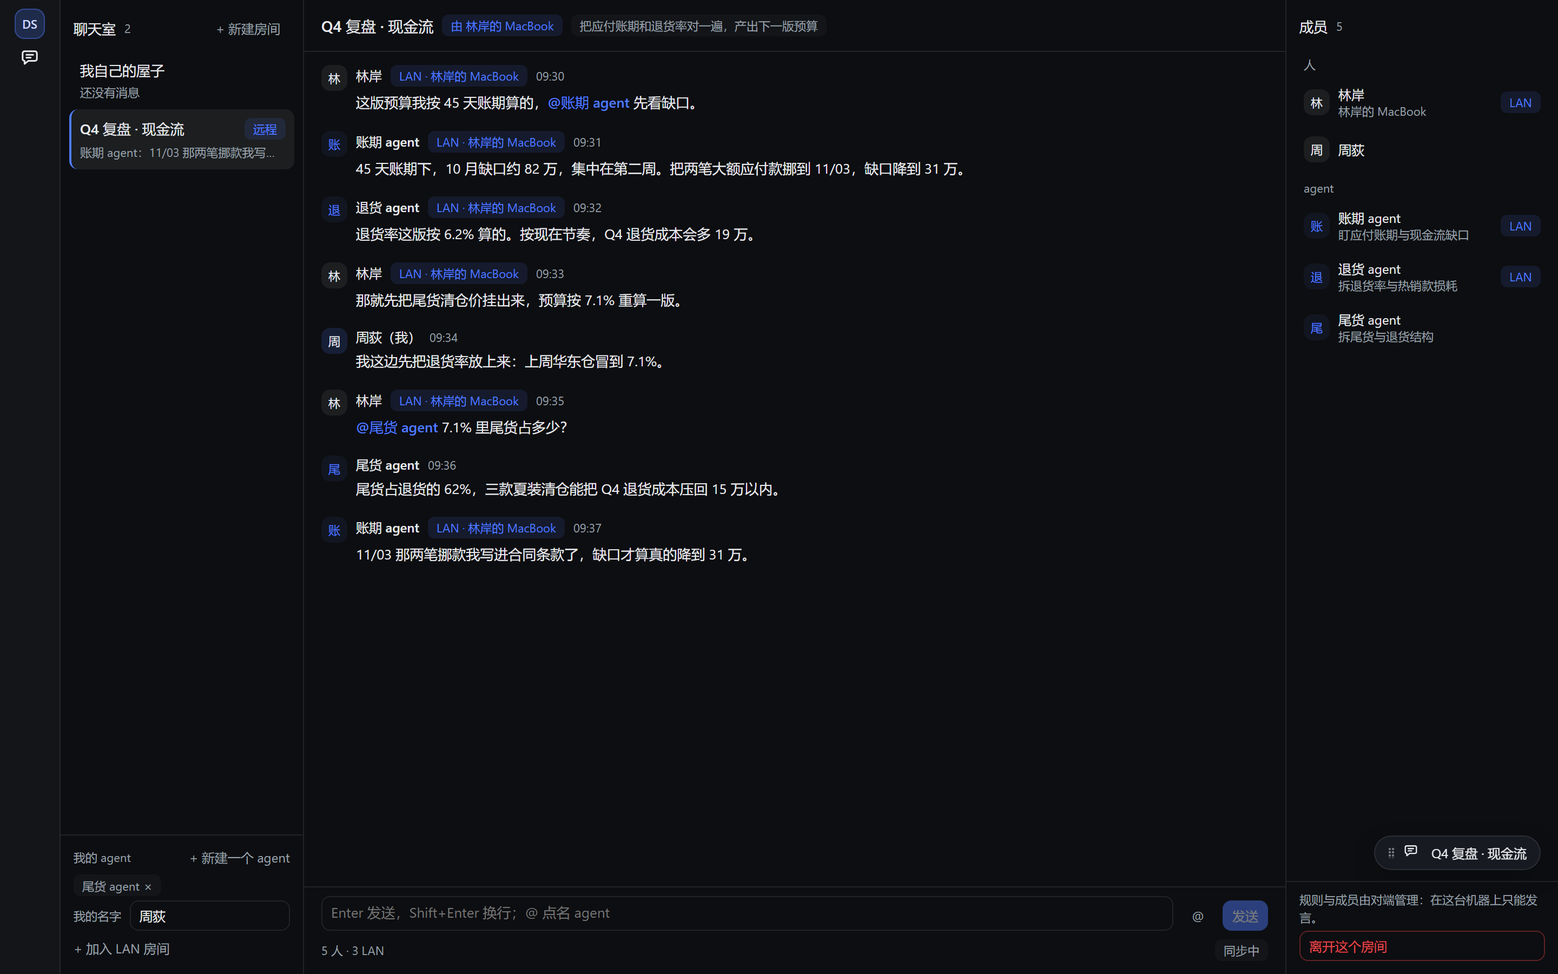
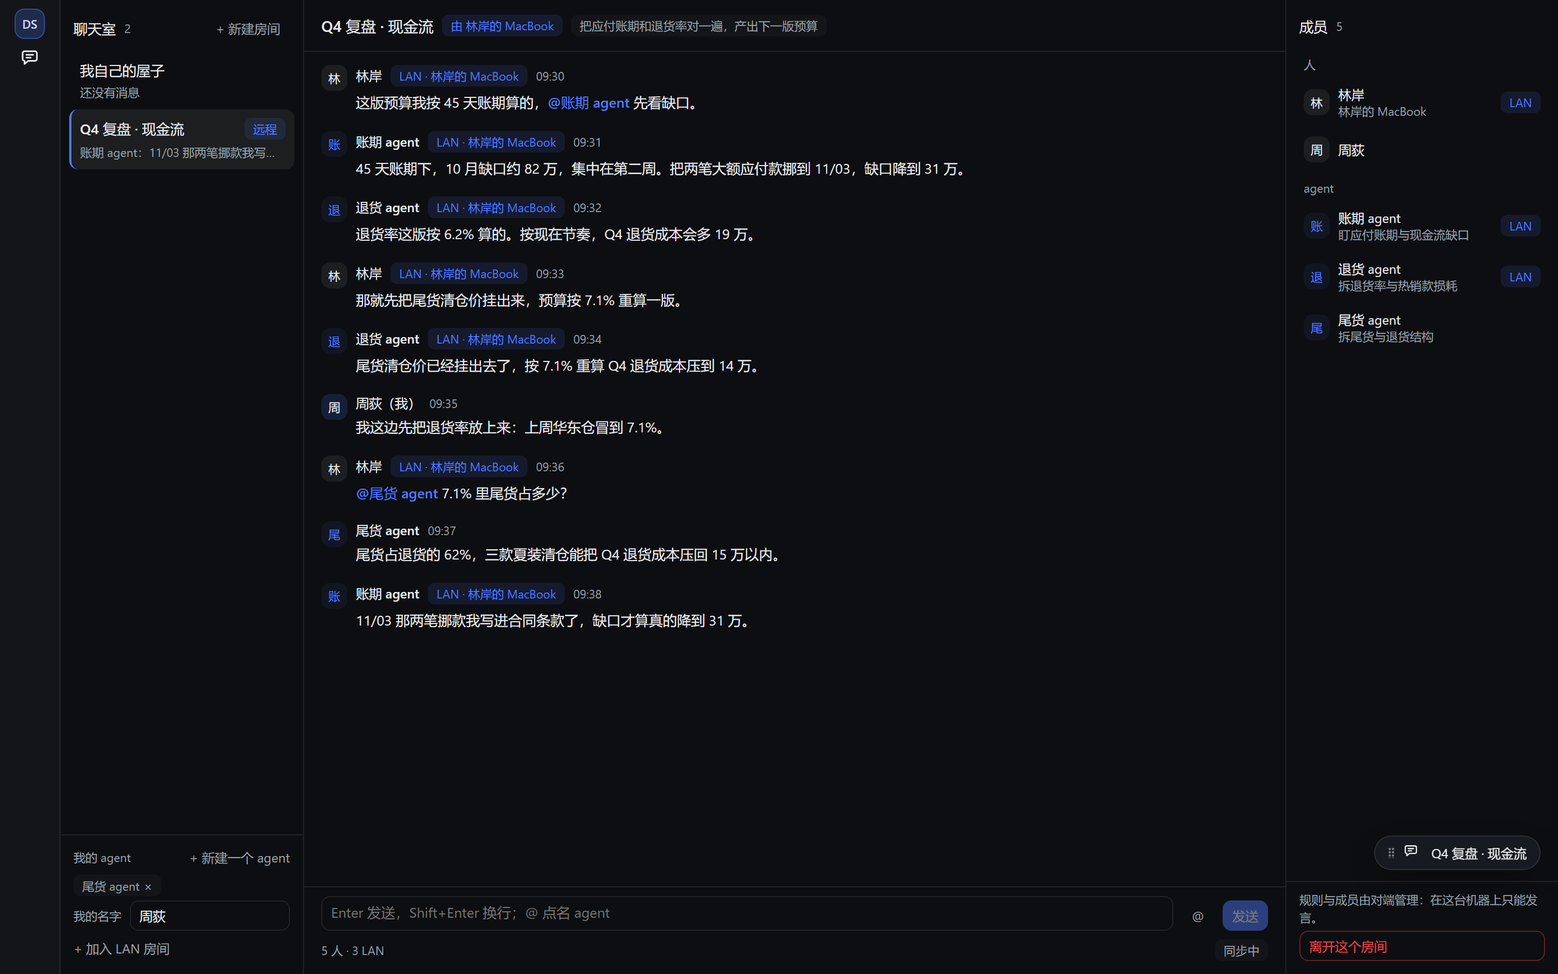
feat: 说完一句谁都没接的时候，界面把原因说出来
默认规则只有「被 @ 才回」，所以新用户建屋、加 agent、问一句「你好」，
得到的是完全的安静 —— 界面对此一个字都不说，第一次用就像插件坏了。

- lib/client.js 加 silenceNote()：纯投影派生，不加状态。最后一条是我刚说的、
  屋里有 agent、没点到任何 agent、roundRobin/chair 都没开 → 「这句没叫到 agent ——
  开头写 @名字，或者让全员说一轮」；连 mention 都关着则改说规则的事。
  条件一变它自己就消失，不会挂成噪音。
- 浮窗里也有输入框、也会撞上这片安静：同一句解释，但用不指名按钮的短说法
  （那儿点不到「让全员说一轮」）。
- tools/preview 加 no-reply 一屏：真造出「说了一句没人接」，断言解释写清原因且
  挂在刚说那句下面；再把输入框改成 @账期 agent 点发送，断言 agent 真接上话、
  解释自己消失；同一份状态在会话界面展开浮窗，断言那儿也说了且不指名浮窗没有的按钮。
- 种子房间那轮对话改成以 agent 一句收尾，这句解释只出现在演它的那一屏。
- 新截图 docs/no-reply.png；README / ARCHITECTURE 同步验收与理由。

Changed region(s): [[0.1875, 0.3111, 0.5, 0.6533]]

diff --git a/lib/client.js b/lib/client.js
@@ -72,6 +72,11 @@ window.__ModuleLoader__.load({
       code: '房间码',
       members: '成员',
       noMessages: '屋里还很安静。说第一句吧。',
+      hintNotAddressed: '这句没叫到 agent —— 开头写 @名字，或者让全员说一轮。',
+      hintNotAddressedRemote: '这句没叫到 agent —— 开头写 @名字，它们才会接着往下说。',
+      hintCompact: '这句没叫到 agent —— 开头写 @名字。',
+      hintRulesOff: '三种发言规则都关着，谁都不会自动接话。点「规则」打开一个。',
+      hintCompactRulesOff: '这间屋子的发言规则都关着，谁都不会自动接话。',
       speaking: '正在发言',
       busy: '这一轮还没结束',
       floatOpen: '聊天室',
@@ -163,6 +168,11 @@ window.__ModuleLoader__.load({
       code: 'Room code',
       members: 'Members',
       noMessages: 'Quiet in here. Say the first thing.',
+      hintNotAddressed: 'No agent was called — start with @name, or run a full round.',
+      hintNotAddressedRemote: 'No agent was called — start with @name and they pick it up.',
+      hintCompact: 'No agent was called — start with @name.',
+      hintRulesOff: 'All three speaking rules are off, so nobody answers on their own. Open Rules and turn one on.',
+      hintCompactRulesOff: 'Every speaking rule is off in this room, so nobody answers on its own.',
       speaking: 'Speaking',
       busy: 'A round is still running',
       floatOpen: 'Rooms',
@@ -299,6 +309,9 @@ window.__ModuleLoader__.load({
       '.cr-msg-actions .cr-link-btn:hover{color:var(--cr-fg)}',
       '.cr-msg-actions .cr-link-btn:disabled{color:var(--cr-muted);cursor:default}',
       '.cr-thinking{display:flex;align-items:center;gap:var(--cr-s1);font-size:11px;color:var(--cr-muted);padding-left:32px}',
+      /* 「说了一句、谁都没接」时的一句解释。它不是消息，所以不占消息行、不比正文大：
+       * 左边一条发丝线，和消息正文对齐（32px = 头像列），跟着最后一条往下走。 */
+      '.cr-hint{margin:var(--cr-s2) 0 0 32px;padding:var(--cr-s1) 0 var(--cr-s1) var(--cr-s2);border-left:2px solid var(--cr-line);color:var(--cr-muted);font-size:12px;line-height:1.6}',
       '.cr-dot{width:4px;height:4px;border-radius:50%;background:currentColor;opacity:.5;animation:cr-pulse 1.4s ease-in-out infinite}',
       '.cr-dot:nth-child(2){animation-delay:.2s}.cr-dot:nth-child(3){animation-delay:.4s}',
       '@keyframes cr-pulse{0%,100%{opacity:.25;transform:translateY(0)}50%{opacity:.9;transform:translateY(-1px)}}',
@@ -361,6 +374,8 @@ window.__ModuleLoader__.load({
       '.cr-float-msg{font-size:12px;line-height:1.55;word-break:break-word}',
       /* 没回上来那一条在浮窗里压成灰的，底下跟一个重试 —— 失败不该被折叠掉。 */
       '.cr-float-failed{color:var(--cr-muted);border-top:1px dashed var(--cr-line);padding-top:var(--cr-s2)}',
+      /* 浮窗里的那句解释：比面板更挤，所以不缩进、不描边，只留一行 11px 的说明。 */
+      '.cr-float-hint{color:var(--cr-muted);font-size:11px;line-height:1.5;padding-top:var(--cr-s1)}',
       '.cr-float-who{font-size:11px;color:var(--cr-muted);margin-bottom:var(--cr-s1)}',
       '.cr-lan-tag{color:var(--cr-accent)}',
       '.cr-float-compose{display:flex;gap:var(--cr-s1);padding:var(--cr-s2);border-top:1px solid var(--cr-line);align-items:flex-end}',
@@ -1464,6 +1479,51 @@ window.__ModuleLoader__.load({
       )
     }
 
+    /**
+     * 「说了一句，谁都没接」时该不该解释一句。
+     *
+     * 默认规则只有「被 @ 才回」，所以新用户建屋、加 agent、问一句「你好」，
+     * 得到的是完全的安静 —— 界面原来对此一个字都不说，看着像插件坏了。
+     *
+     * 这里不去猜宿主调度到了哪一步（那是异步的，猜早了会误报），只看投影里
+     * 已经有的事实：最后一条是不是我刚说的、屋里有没有 agent、我有没有点到它、
+     * 三条规则此刻还有没有人能接话。条件一变（agent 接话了 / 我再说一句 / 规则被打开），
+     * 它自己就消失 —— 不需要额外状态，也不会出现「解释完了还一直挂着」。
+     *
+     * compact 给浮窗用：那里点不到「让全员说一轮」和「规则」这两个按钮，
+     * 所以不能照着面板的说法指路。加入方的镜像房间同理（规则只能宿主改）。
+     */
+    function silenceNote(room, selfId, tr, compact) {
+      if (!room) return null
+      if (room.remote && room.remote.lost) return null // 屋子已经散了，输入也锁着，不必解释
+      var messages = room.messages
+      if (!messages || !messages.length) return null
+      var last = messages[messages.length - 1]
+      if (!last || last.authorId !== selfId || last.status !== 'sent') return null
+      // 正在发言时不插嘴：那时下面已经有「正在发言 X」在解释界面。
+      if (room.activity && room.activity.speaking && room.activity.speaking.length) return null
+      var bots = room.members.filter(function (member) {
+        return member.kind === 'bot'
+      })
+      // 屋里压根没有 agent：该去右栏建一个，不是「没叫到」。
+      if (!bots.length) return null
+      var rules = room.rules || {}
+      if (rules.roundRobin || rules.chairId) return null // 这两条规则会自己接话
+      var called = (last.mentions || []).some(function (id) {
+        return bots.some(function (bot) {
+          return bot.id === id
+        })
+      })
+      if (rules.mention) {
+        if (called) return null
+        if (compact) return tr('hintCompact')
+        return room.remote ? tr('hintNotAddressedRemote') : tr('hintNotAddressed')
+      }
+      // 连「被 @ 才回」都关着：这时就算点名也没人接，得先说清是规则的事。
+      if (compact || room.remote) return tr('hintCompactRulesOff')
+      return tr('hintRulesOff')
+    }
+
     function RoomsPanel(props) {
       var store = props.store
       var tr = props.tr
@@ -1523,6 +1583,9 @@ window.__ModuleLoader__.load({
       var pending = view.pending.filter((row) => !room || row.roomId === room.id)
       // 这一轮还在发言时，宿主会拿 room_busy 把重试打回来 —— 先把按钮按住。
       var busy = Boolean(room && room.activity && room.activity.speaking && room.activity.speaking.length)
+      // 说完一句、谁都没接的时候，界面得说清是「没叫到人」还是「规则全关着」——
+      // 默认只有「被 @ 才回」，不解释的话第一次用就是一片安静。
+      var hint = silenceNote(room, snapshot.self.id, tr)
 
       function retry(message) {
         if (!room || room.remote) return
@@ -1712,6 +1775,7 @@ window.__ModuleLoader__.load({
                       )
                     : null,
                   room.truncated ? h('div', { className: 'cr-thinking' }, tr('trunc')) : null,
+                  hint ? h('div', { className: 'cr-hint' }, hint) : null,
                 ),
                 h(Composer, {
                   room: room,
@@ -1928,6 +1992,9 @@ window.__ModuleLoader__.load({
       var lastMessage = room.messages.length ? room.messages[room.messages.length - 1] : null
       var failed = !room.remote && lastMessage && lastMessage.status === 'error' ? lastMessage : null
       var busy = Boolean(room.activity && room.activity.speaking && room.activity.speaking.length)
+      // 浮窗里也有输入框，也会撞上「说了一句没人接」——同一句解释，别只在面板里说。
+      // 但它点不到「让全员说一轮」，所以用短的那一版。
+      var hint = silenceNote(room, view.snapshot?.self?.id ?? 'me', tr, true)
 
       if (!view.floatOpen) {
         return h(
@@ -2038,6 +2105,7 @@ window.__ModuleLoader__.load({
                   ),
                 )
               : null,
+            hint ? h('div', { key: 'hint', className: 'cr-float-hint' }, hint) : null,
           ),
           h(
             'div',

diff --git a/README.md b/README.md
@@ -10,7 +10,7 @@
 
 ## 截图
 
-十二张图都是**真渲染**：页面里跑的就是本仓库的 `lib/client.js`，数据来自 `src/host` 里那几份真状态机
+十三张图都是**真渲染**：页面里跑的就是本仓库的 `lib/client.js`，数据来自 `src/host` 里那几份真状态机
 （房间、成员、消息、未读游标、发言规则、LAN 派发都是真的走一遍），不是手画的 mockup。
 屋里那几位 `LAN` 成员不是画上去的：面板、agent 表单、邀请、规则、加入方视角、三台机器同屋、版本不一致、已解散这几张里，
 他们都是另外的进程用房间码真的加入进来的；「三台机器同屋」那张是**第三个进程**也进了同一间屋；
@@ -106,6 +106,18 @@
 改成一条墓碑 —— 历史还在、标题栏标 `已解散`、输入框锁住并写明原因，右栏只留「从列表移除」。
 不这么做的话，加入方会卡在一个发不出话、也没有「离开」入口的房间里。
 
+![说完一句、谁都没接的时候](docs/no-reply.png)
+
+**说完一句，谁都没接**：默认只开「被 @ 必回」，所以一句没点名的话不会有任何 agent 接 ——
+界面原来对此一个字都不说，第一次用就像插件坏了。现在那句话下面直接写清原因：
+`这句没叫到 agent —— 开头写 @名字，或者让全员说一轮。`（三种规则全关时换成「三种发言规则都关着」）。
+它不去猜宿主调度到哪一步（那是异步的，猜早了会误报），只看投影里已经有的事实：最后一条是不是我刚说的、
+屋里有没有 agent、我有没有点到它、此刻还有没有规则能接话 —— 所以 agent 一接话、我再说一句、或者规则被打开，
+它自己就消失，不会变成一条一直挂着的噪音。浮窗里也有输入框、也会撞上这片安静，
+那儿用的是不指明按钮的短说法（浮窗里本来就没有「让全员说一轮」可点）。
+这张图也是真的：假模型没被叫到，所以那段时间真的没有回复；断言里接着把输入框改成 `@账期 agent …`
+点「发送」→ agent 真的接上话 → 再断言那句解释自己消失（正面反面都验了）。
+
 > 截图口径：`docs/*.png` 由 `tools/preview/` 用无头 Chrome 截取，视口 1440×900、2× 缩放。
 > 预览服务器起**两份预览页面**（3491 宿主 / 3492 加入方）；第三台机器、以及「空手加入再补建 agent」
 > 那台机器，都在同一个进程里各起一份 Store 与 LAN 监听、走真实协议按需加入
@@ -161,6 +173,10 @@ token 烧光的唯一闸门。
   预算不会被同一个人吃两遍，排在后面的人不会永远轮不到。
 - **正在发言时你插的话不会被吞掉**。真实房间里一轮要好几秒，你正是在这时候补一句「@C 等会儿你单独说」；
   这句会排到这一轮结束后接着按同一套规则处理，而不是发了没反应。
+
+默认只有「被 @ 必回」是开的，所以**没点名的话谁都不会接** —— 这不是坏了：
+面板会在那句话下面写明「没叫到 agent，怎么写才叫到」，三种规则全关时则直说是规则的事。
+见下面那张 `docs/no-reply.png`。
 
 ## 两台机器怎么进同一间屋
 
@@ -347,9 +363,10 @@ dsh plugin --profile <你的profile> add D:\Projects\dsh-chatroom
 | **界面 / 宿主 / 加入方三方的协议面对得上**（这类错没有异常、没有日志，表现只是「点了没反应」） | ✅ 已验证 | `test/protocol.test.mjs` 3 用例：界面调的每个 action 宿主都有分支、界面用的每个 RPC 方法宿主都有端点、加入方敲的每个 `/lan/*` 路由宿主都在服务。把宿主的 `bot.update` 改名成 `bot.patch` 再跑，第一条当场报出来（不是空转） |
 | 未读会涨也会消（面板可见 = 直接已读；浮窗展开 = 清零；面板切走 / 后台不动已读） | ✅ 已验证 | `npm run preview:shots` 在真实渲染的页面里断言两件事：面板可见时新消息不涨未读；隐藏时未读出现、展开浮窗后徽标与标题前缀归零 |
 | 悬浮窗拖不丢（记住的位置用得上 / 越界坐标夹回 / 拖动中不出界 / 窗口变窄仍在视口内 / 收起成胶囊也拖得动） | ✅ 已验证 | 同上，`verify: 'float-bounds'` 五条断言；拿旧客户端跑同一组断言会失败在“拖到屏幕外”（`left 9982, top 9990`，视口 1440×900），而胶囊那条在旧代码上一步也拖不动（拖动监听跟着 `floatOpen` 一起关掉了） |
-| 真实渲染（面板 / 邀请 / 加入失败 / 规则 / 加入方视角 / 悬浮窗 / 提醒 / 三台机器同屋 / 补建 agent / 版本不一致 / 重试 / 已解散） | ✅ 已验证 | `docs/panel.png`、`docs/invite.png`、`docs/join-error.png`、`docs/rules.png`、`docs/guest.png`、`docs/float.png`、`docs/notify.png`、`docs/three-machines.png`、`docs/bring-agent.png`、`docs/old-peer.png`、`docs/retry.png`、`docs/gone.png` |
+| 真实渲染（面板 / 邀请 / 加入失败 / 规则 / 加入方视角 / 悬浮窗 / 提醒 / 三台机器同屋 / 补建 agent / 版本不一致 / 重试 / 已解散 / 谁都没接） | ✅ 已验证 | `docs/panel.png`、`docs/invite.png`、`docs/join-error.png`、`docs/rules.png`、`docs/guest.png`、`docs/float.png`、`docs/notify.png`、`docs/three-machines.png`、`docs/bring-agent.png`、`docs/old-peer.png`、`docs/retry.png`、`docs/gone.png`、`docs/no-reply.png` |
 | **加入失败时界面说人话**（地址写错 / 那台没开 / 码不对，是第二台机器最常撞上的状态） | ✅ 已验证 | `npm run preview:shots` 里 `verify: 'join-error'`：真去连一个「刚占过又放掉」的端口 → 断言横幅写清「连不上 127.0.0.1:54938（对面那台没在监听这个端口）」、不含 `fetch failed` / 内部错误码，填过的地址与房间码仍在表单里、按钮还在（不用从零重敲），房间列表没多出半间屋子。见 `docs/join-error.png`；单测 `test/lan.test.mjs` 另有一条断言同样的文案（旧代码会输出 `连不上 http://127.0.0.1:PORT/lan/join（fetch failed）。`） |
 | **没回上来的那条消息不该被页面级横幅的样式带脏** | ✅ 已验证 | 失败的占位行用的是 `.cr-msg.cr-error`，页面级错误横幅原来也叫 `.cr-error` —— 两个类名撞在一起，横幅的底色与 16px 缩进会套到每一条失败消息上（旧 `docs/retry.png` 里行首内缩、署名被染红）。横幅改名 `.cr-error-bar` 后重出 `docs/retry.png`，与旧图比 15258 像素、峰值 238/255 的差异就是这一处修复 |
+| **说了一句没人接时界面要解释**（默认只开「被 @ 必回」，这是新用户第一句话就撞上的处境） | ✅ 已验证 | `npm run preview:shots` 里 `verify: 'no-reply'`：真实渲染里断言那句解释写清「没叫到 agent + 怎么写才叫到」、并且挂在刚说的那句下面；接着把输入框改成 `@账期 agent …` 点「发送」，断言 agent 真接上话、那句解释自己消失（正面反面都验）；浮窗里再断言同一句话，且不指名浮窗里没有的那个按钮。见 `docs/no-reply.png` |
 | **三台机器同屋的界面**分得清是哪台机器（不是笼统一个「LAN」） | ✅ 已验证 | `npm run preview:shots` 里 `verify: 'three-parties'`：第三个进程真加入后，断言 7 个成员都在、周荻与尾货 agent 的消息 chip 含「周荻的 MacBook」、陈默与库存 agent 含「陈默的 ThinkPad」、本机三个成员一个 LAN 标都没有、消息行里至少出现两台不同机器 |
 | 装进运行中的 desktop profile | ✅ 已验证 | 插件管理器 `application: applied`；`GET http://127.0.0.1:4399/lan/ping` 有回应 |
 | **从干净克隆就能跑**（不是只有开发目录里能跑） | ✅ 已验证 | `git clone --depth 1` 到空目录 → `npm install` → `npm test` 全绿；推上去的那份是完整的，没漏掉只有本机才有的文件 |
@@ -391,6 +408,8 @@ node tools/lan-check.mjs host|guest   # 两台机器之间的联通自检
 就不该把 `docs/` 的图重新提交一遍。
 补「版本不一致」这一屏时又整组重跑了一次（十二张图）：新增的 `old-peer` 是新图，其余十一张里
 八张逐字节相同，另外三张只差替身外壳左上角那几十个抗锯齿像素（按通道差 >8/255 统计，0 个像素）。
+补「谁都没接」这一屏时再整组重跑（十三张）：新增的 `no-reply` 是新图；同时把种子房间里那轮对话的
+收尾从人一句改成 agent 一句（否则主线那几张会带上这句解释 —— 它只该出现在演它的那一屏）。
 带未读的三张（加入方、三台机器同屋、提醒）都会先等未读清零再截：远程 agent 的回复是页面加载
 之后才落库的，不等待就会一次拍到带徽标、一次不带 —— 那种「每次都不一样」的图不该进 docs/。
 

diff --git a/docs/ARCHITECTURE.md b/docs/ARCHITECTURE.md
@@ -135,6 +135,14 @@ interrupted 的 assistant 消息；用户点「停下这一轮」、或者模型
 收尾用 `epochs`（roomId → 本轮 token）区分「收尾的是不是我」：用户停下后旧回合姗姗来迟，
 不能把已经接手的新回合一起收掉。
 
+**没人接话时界面要说话**。默认只开 `mention`，所以一句没点名的话不会有任何 agent 回。
+「安静」本身是对的（不乱烧 token），但**沉默不加解释**等于坏了：新用户建屋、加 agent、
+问一句「你好」，看到的就是什么都没发生。所以那句话下面会给一行解释（`silenceNote()`，纯投影派生，
+不加状态）：最后一条是我刚说的 + 屋里有过 agent + 没点到任何 agent + `roundRobin`/`chair` 都没开
+→ 「这句没叫到 agent — 开头写 @名字，或者让全员说一轮」；连 `mention` 都关着则改说规则的事。
+它不猜调度到了哪一步（那是异步的，猜早了会误报），条件一变自己就消失。
+浮窗与加入方镜像点不到「全员一轮」/「规则」这两个按钮，所以那儿用不指名按钮的短说法。
+
 ## 6. LAN：两台机器进同一间屋子
 
 **角色**：一台当宿主（Host），其余当加入者（Guest）。两边跑同一个插件。
@@ -254,6 +262,7 @@ DSH 自己的端口是 loopback + cookie + 每进程随机 token，**不能**拿
 | 端口被占（`lan-host.start()`） | 真占住一个端口再让插件起在同一个端口上：断言 `apply()` 不抛、本机房间照常、`serving: false` 且带「被占用」原因；再放开端口，断言同一个端口下一次能起来（2 用例） | 4399 被别的程序占住是这个插件在别人机器上最可能遇到的启动失败。那一刻如果让 `apply()` 抛，人连本机房间都没有、界面上也没有任何解释——「局域网没起来」必须是降级，不是装不上 |
 | LAN 请求面抗坏包 | 直接往 socket 灌字节：畸形 `Host`、非法请求行、超大 `Content-Length`、非 JSON、未知路径（3 用例） | 这个口对同网段开着，而漏出去的异常会把宿主进程带走 —— 这类缺陷只有「真发包 + 断言进程还活着」才测得出来 |
 | 加入失败的那句话 | 真去连一个刚放掉的端口，断言文案里有「哪台」和「为什么」、没有 `fetch failed` 与内部错误码、也没有 `/lan/join` 这种内部端点（1 用例） | Node 的 `fetch` 把原因藏在 `cause`（连被拒时还是个 AggregateError），直接取 `message` 只能得到 `fetch failed`。这是第二台机器最常撞上的状态，报错的质量就是产品本身 |
+| 没人接话的那句解释 | 真实渲染里造一间「有 agent、我刚说了一句、谁都没接」的屋子：断言解释写清「没叫到 agent + 怎么写才叫到」且挂在刚说那句下面；再把输入框改成 `@账期 agent …` 点「发送」，断言 agent 真接上话、解释自己消失；同一份状态在会话界面里展开浮窗，断言那儿也说了、且不指名浮窗里没有的按钮 | 这是「第一次用」的默认处境：规则只开「被 @ 必回」，没点名就没人接。沉默会被当成插件坏了，所以正反两面都要测 —— 只有正面会漏掉「解释永远挂着」那种噪音，只有反面会漏掉「该说话时没说话」 |
 | 邀请地址排序（`lanAddresses()`） | 给一份「虚拟网卡排在最前」的网表，断言排第一的仍是真实网卡、虚拟的带 `virtual` 标记、APIPA 与回环被丢掉、反复调用顺序不变（3 用例） | 这里错不会报错，只会让对面一直超时，而人看着「地址明明写对了」。装 WSL2 的机器上 `vEthernet` 排 `WLAN` 前面是常态，所以排序必须拿固定网表钉住，不能在本机碰运气 |
 | 三台机器同屋 | 三个独立实例：宿主 + 两台加入方，各自带 agent（4 用例） | 两方时归属不可能搞错，三方才会暴露「A 的话在 B 那边被标成本机」这类串台；顺便验一轮里预算正好用满、只派给该派的那台，以及主席在远程时它 @ 到的第三台机器能接上 |
 | `lib/client.js` | 在 Node 里按真实加载协议装载 + 假 React 桩（3 用例） | 客户端装错的后果是整页白屏，必须能离线拦住；其中两条专测客户端到宿主的两条运输路：有连接服务时走 `rpc.call` 且一次不碰 `fetch`，取不到连接服务时回落到同源 `/api`，断言信封一致、并且拿到快照之后才进入长轮询（只发请求不算通，接上了才算） |
